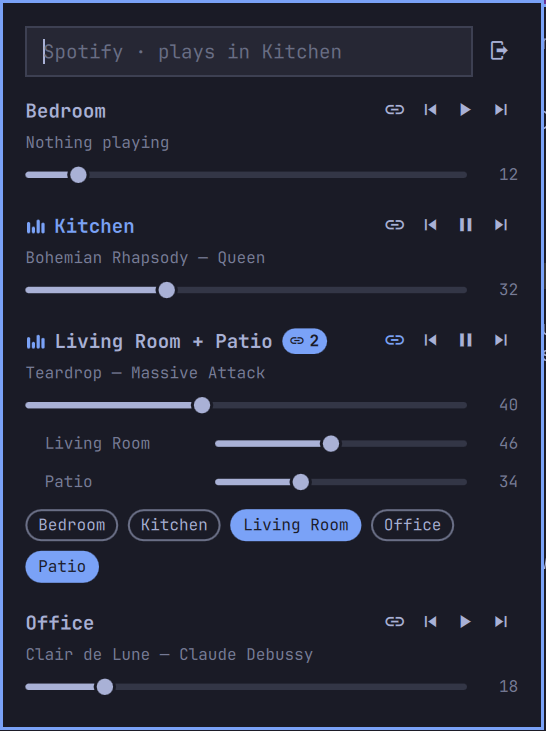
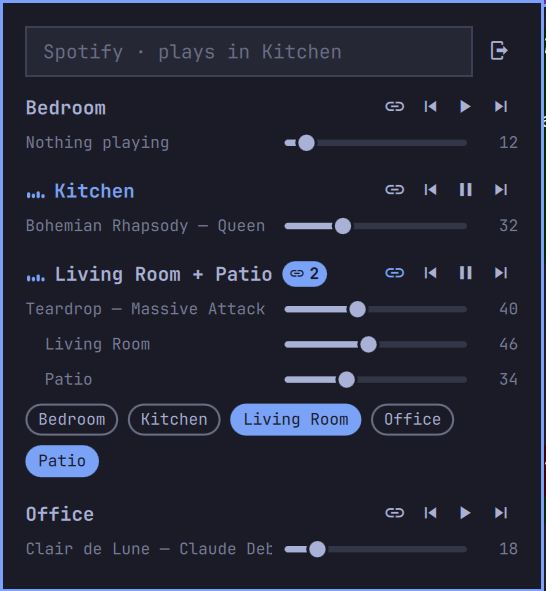
Roll song titles that don't fit; new preview
- Marquee component shared by room names and the playing track
- Write the speaker cache only when the speaker list changes
- Retake preview.png with the compact layout

diff --git a/BarWidget.qml b/BarWidget.qml
@@ -303,6 +303,33 @@ Panel {
     }
   }
 
+  // Text that rolls back and forth while the popup is open when it doesn't fit.
+  component Marquee: Item {
+    id: marquee
+    property alias text: label.text
+    property alias color: label.color
+    property alias font: label.font
+    readonly property real textWidth: label.implicitWidth
+    readonly property real overflow: Math.max(0, label.implicitWidth - width)
+    implicitHeight: label.implicitHeight
+    clip: overflow > 0
+
+    Text {
+      id: label
+      textFormat: Text.PlainText
+
+      SequentialAnimation on x {
+        running: root.opened && marquee.overflow > 0
+        loops: Animation.Infinite
+        onRunningChanged: if (!running) label.x = 0
+        PauseAnimation { duration: 1500 }
+        NumberAnimation { to: -marquee.overflow; duration: marquee.overflow * 30; easing.type: Easing.InOutSine }
+        PauseAnimation { duration: 1200 }
+        NumberAnimation { to: 0; duration: marquee.overflow * 30; easing.type: Easing.InOutSine }
+      }
+    }
+  }
+
   component Caption: Text {
     textFormat: Text.PlainText
     elide: Text.ElideRight
@@ -665,36 +692,17 @@ Panel {
                     color: Color.accent
                   }
 
-                  // Names that don't fit roll back and forth instead of eliding.
-                  Item {
+                  Marquee {
                     id: nameText
-                    readonly property real overflow: Math.max(0, nameLabel.implicitWidth - width)
-                    width: Math.min(nameLabel.implicitWidth, header.width
+                    width: Math.min(textWidth, header.width
                       - (rowEq.visible ? rowEq.width + header.spacing : 0)
                       - (badge.visible ? badge.width + header.spacing : 0))
-                    height: nameLabel.implicitHeight
-                    clip: overflow > 0
-
-                    Text {
-                      id: nameLabel
-                      text: row.model.name
-                      textFormat: Text.PlainText
-                      color: root.groups.length > 1 && root.targetGroup && root.targetGroup.ip === row.model.ip
-                        ? Color.accent : root.bar.foreground
-                      font.family: root.bar.fontFamily
-                      font.pixelSize: Style.font.body
-                      font.bold: true
-
-                      SequentialAnimation on x {
-                        running: root.opened && nameText.overflow > 0
-                        loops: Animation.Infinite
-                        onRunningChanged: if (!running) nameLabel.x = 0
-                        PauseAnimation { duration: 1500 }
-                        NumberAnimation { to: -nameText.overflow; duration: nameText.overflow * 30; easing.type: Easing.InOutSine }
-                        PauseAnimation { duration: 1200 }
-                        NumberAnimation { to: 0; duration: nameText.overflow * 30; easing.type: Easing.InOutSine }
-                      }
-                    }
+                    text: row.model.name
+                    color: root.groups.length > 1 && root.targetGroup && root.targetGroup.ip === row.model.ip
+                      ? Color.accent : root.bar.foreground
+                    font.family: root.bar.fontFamily
+                    font.pixelSize: Style.font.body
+                    font.bold: true
 
                     // Clicking a room makes it the one search results play in.
                     TapHandler { onTapped: root.targetIp = row.model.ip }
@@ -762,12 +770,15 @@ Panel {
                 width: parent.width
                 implicitHeight: Math.max(slider.implicitHeight, track.implicitHeight)
 
-                Caption {
+                Marquee {
                   id: track
                   anchors.left: parent.left
                   anchors.verticalCenter: parent.verticalCenter
                   width: parent.width * 0.5
                   text: [row.model.title, row.model.artist].filter(Boolean).join(" — ") || "Nothing playing"
+                  color: root.dim
+                  font.family: root.bar.fontFamily
+                  font.pixelSize: Style.font.caption
                 }
 
                 PanelSlider {

diff --git a/README.md b/README.md
@@ -35,7 +35,7 @@ The second line removes the Spotify login and the cached speaker addresses. Noth
 ## Use
 
 - **Bar icon:** left click opens the popup. Middle click plays/pauses. Scroll changes the volume of the room that's playing.
-- **Rooms:** each group shows an animated spectrum while playing. Long names scroll.
+- **Rooms:** each group shows an animated spectrum while playing. Long room names and song titles roll so they can be read in full.
 - **Grouping:** the link button (or the 🔗 badge on a group) expands it to one volume slider per speaker plus chips for every room. Tap a chip to add or remove that room; it pulses until Sonos confirms.
 - **Search:** type in the search field, pick where it plays with the "Play in" chips, then `enter` or click a result. `esc` clears, then closes.
 
